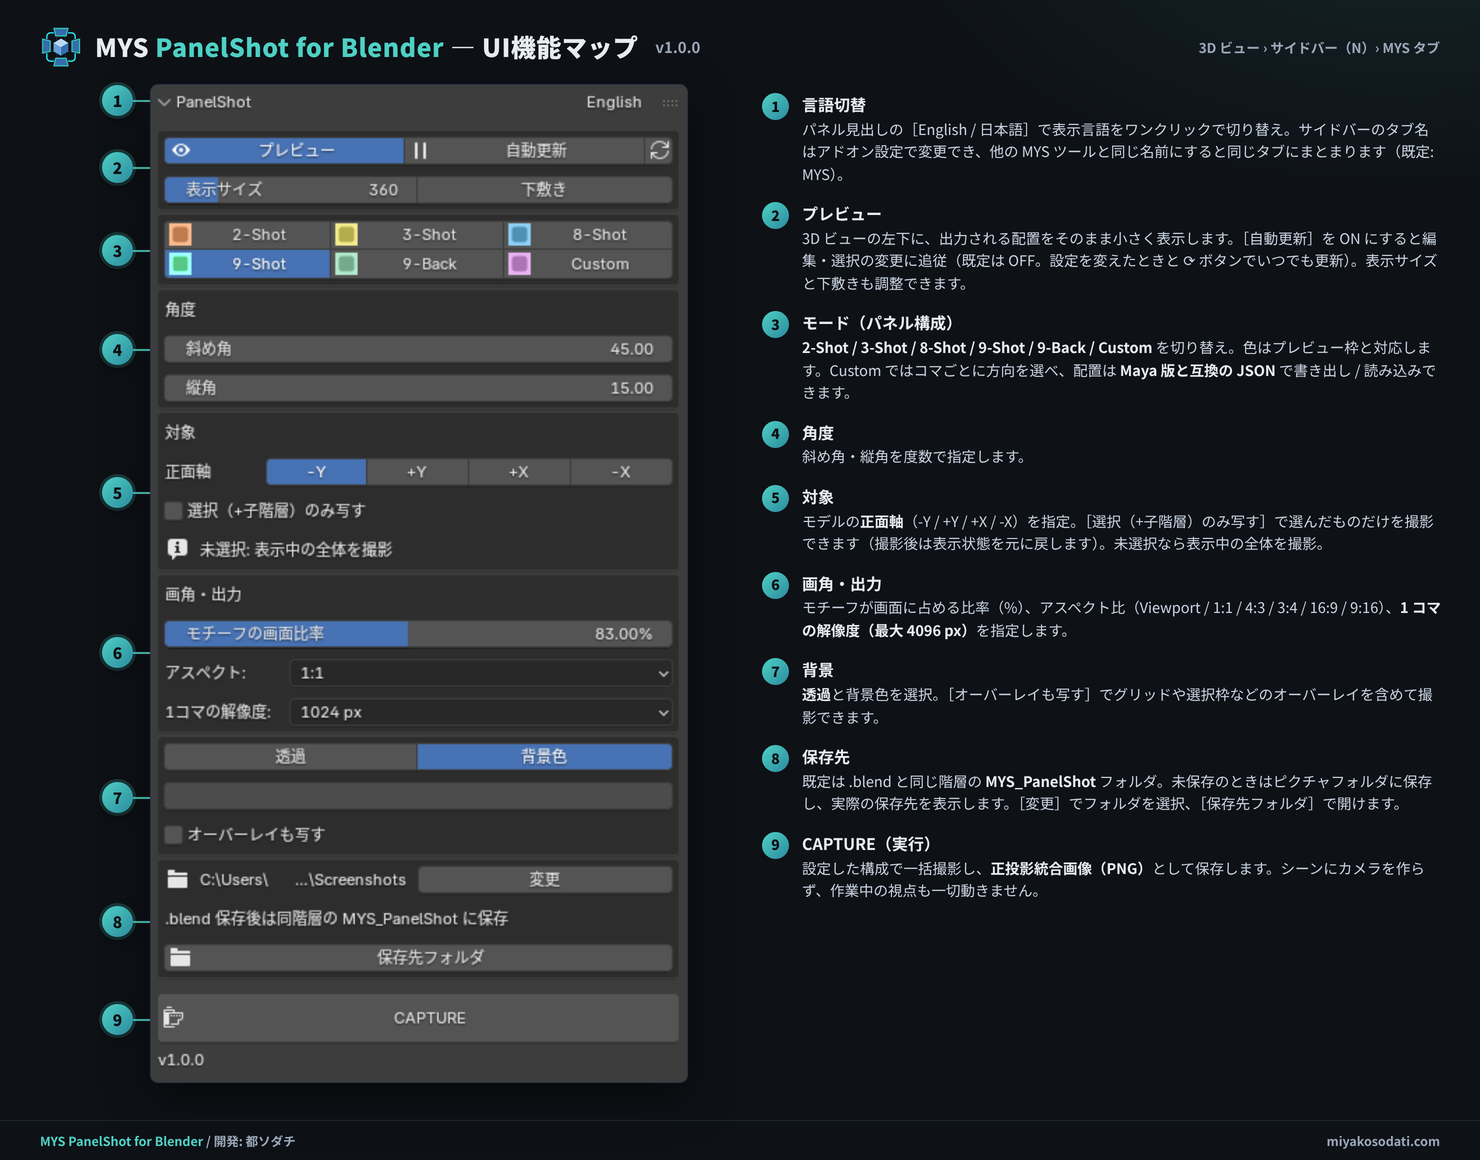
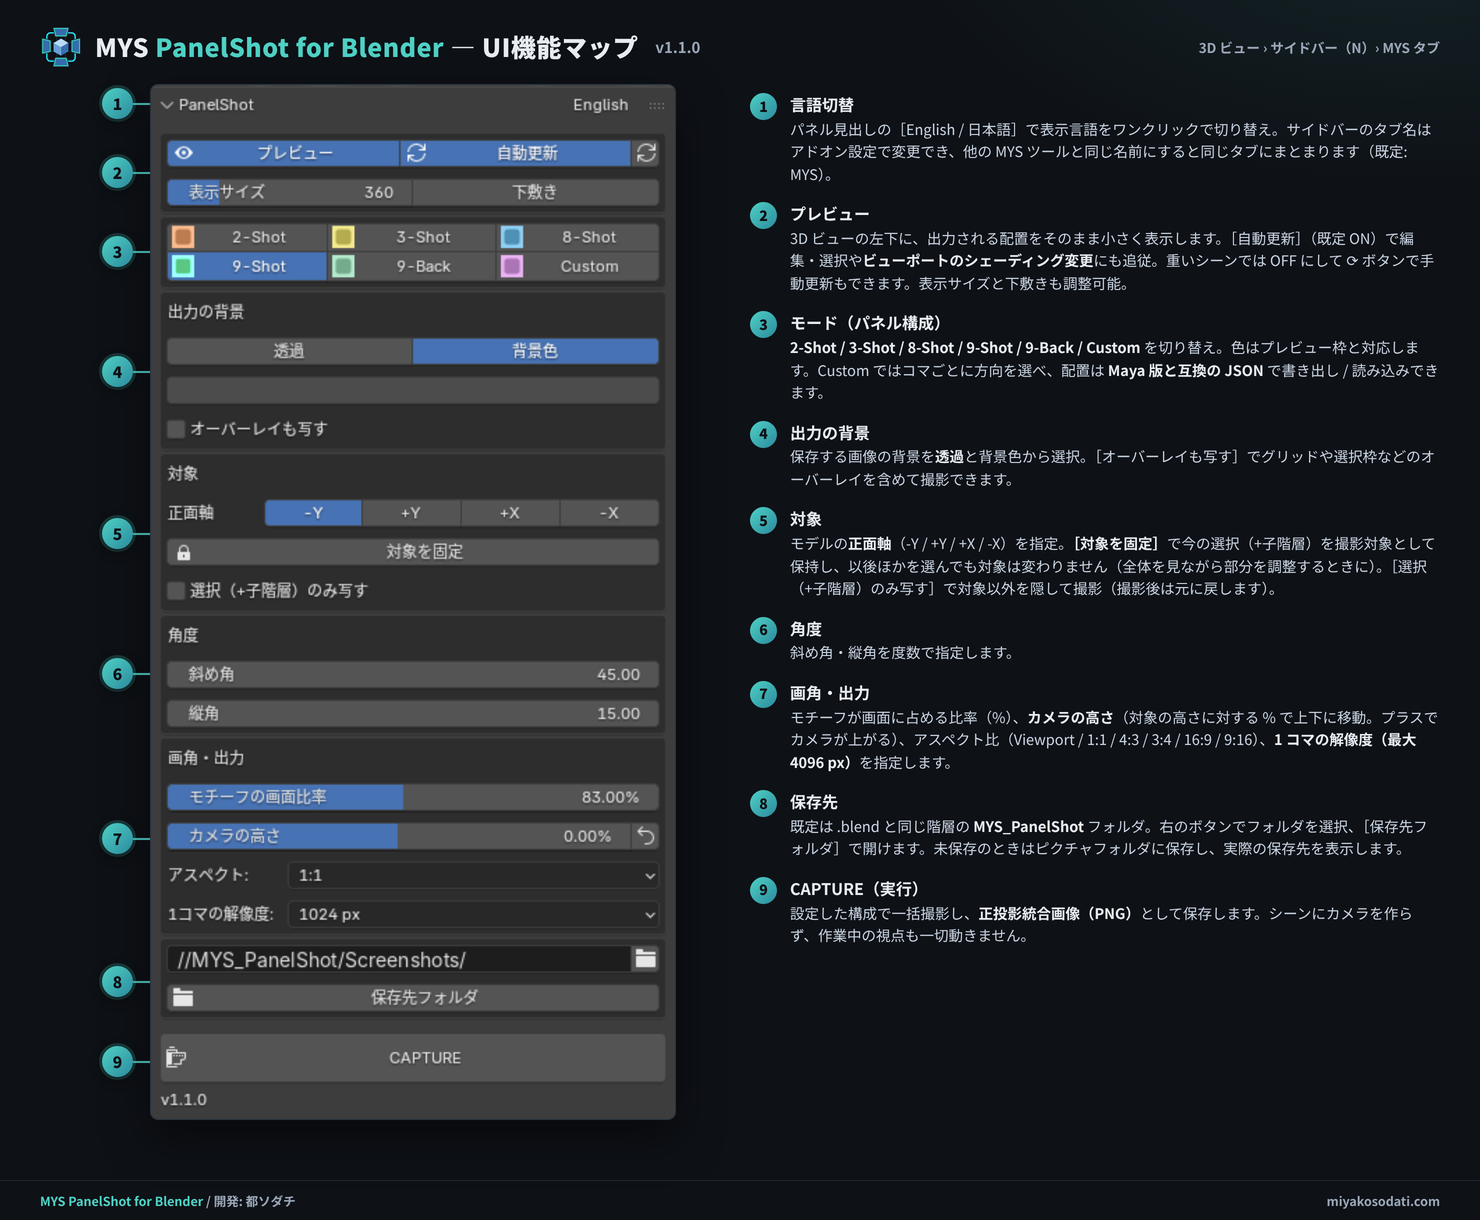
PanelShot for Blender v1.1.0: lock target, camera height, shading-aware preview

diff --git a/tools/panelshot-blender/index.html b/tools/panelshot-blender/index.html
@@ -27,7 +27,7 @@
 
   <div class="tool-head">
     <div class="crumb"><a href="/">MYS Tools</a> / PanelShot for Blender</div>
-    <h1>MYS PanelShot for Blender <span style="font-size:16px;color:var(--tx3)">v1.0.0</span></h1>
+    <h1>MYS PanelShot for Blender <span style="font-size:16px;color:var(--tx3)">v1.1.0</span></h1>
     <div class="tag">ビューポートの見た目のまま、複数アングルの正投影統合画像を一括出力する Blender アドオン</div>
     <div class="badges">
       <span class="bd dcc">Blender 4.2 LTS 〜</span>
@@ -36,10 +36,10 @@
       <span class="bd">無償・商用利用可</span>
     </div>
     <div class="dl-row">
-      <a class="dl-btn" href="https://github.com/miyakosodati/miyakosodati.github.io/releases/download/panelshot-blender-v1.0.0/mys_panelshot-1.0.0.zip">ダウンロード（v1.0.0）</a>
+      <a class="dl-btn" href="https://github.com/miyakosodati/miyakosodati.github.io/releases/download/panelshot-blender-v1.1.0/mys_panelshot-1.1.0.zip">ダウンロード（v1.1.0）</a>
       <div class="dl-note">このアドオンは <a href="#license">GNU GPL v3（またはそれ以降）</a>で配布しています（Maya 版ツールの EULA は適用されません）。zip は<strong>展開せずに</strong>そのまま Blender へインストールしてください。</div>
     </div>
-    <div style="margin-top:12px;font-size:13px;color:var(--tx2);border:1px solid #2a3442;border-left:3px solid #4fd1c5;border-radius:6px;background:rgba(26,33,44,.5);padding:9px 13px;line-height:1.65"><strong style="color:#4fd1c5">最新の更新（v1.0.0 / 2026-11-13）</strong>　一般公開を開始しました。Maya 版 <a href="/tools/panelshot/">MYS PanelShot</a> の Blender 移植版です。 <a href="#history">→ 更新履歴</a></div>
+    <div style="margin-top:12px;font-size:13px;color:var(--tx2);border:1px solid #2a3442;border-left:3px solid #4fd1c5;border-radius:6px;background:rgba(26,33,44,.5);padding:9px 13px;line-height:1.65"><strong style="color:#4fd1c5">最新の更新（v1.1.0 / 2026-11-13）</strong>　「対象を固定」と「カメラの高さ」を追加。シェーディング変更でもプレビューが自動更新されるようになり、パネルの並びも整理しました。 <a href="#history">→ 更新履歴</a></div>
   </div>
 
   <img class="figure" src="/assets/img/panelshot-blender/summary.png" alt="MYS PanelShot for Blender — 監修・資料用の正投影パネルを、Blender でも一発で。">
@@ -50,7 +50,8 @@
     <li>ビューポートの見た目のまま撮影します。シーンにカメラを作らず、<strong>作業中の視点も一切動きません</strong>。</li>
     <li>3D ビューの左下に<strong>仕上がりのプレビュー</strong>を表示。出力前に構成と収まりを確認できます。</li>
     <li>斜め角・縦角、モデルの正面軸、モチーフの画面比率、アスペクト比、<strong>1 コマの解像度（最大 4096 px）</strong>を指定可能。背景は<strong>透過</strong>とベタ色から選べます。</li>
-    <li>選択したもの（と子階層）だけを撮影することもできます。</li>
+    <li>選択したもの（と子階層）だけを撮影することもできます。<strong>［対象を固定］</strong>で撮影対象を保持すれば、ほかを選んで調整している間も対象は変わりません。</li>
+    <li><strong>カメラの高さ</strong>（対象の高さに対する %）で、注視点を上下にずらして収まりを調整できます。</li>
     <li>カスタム配置は <a href="/tools/panelshot/">Maya 版</a>と互換の JSON で書き出し / 読み込みでき、同じレイアウトを両方で使い回せます。</li>
     <li>表示は日本語 / English をワンクリックで切り替え。</li>
   </ul>
@@ -73,7 +74,7 @@
   <h2 class="sec">承知しておきたいこと</h2>
   <ul>
     <li>撮影はビューポートの表示を基にするため、画質や表示内容（シェーディングモード・照明など）はビューポートの設定に従います。</li>
-    <li>プレビューの「自動更新」は既定で OFF です（重いシーンで編集中の負荷を避けるため）。設定を変えたときと更新ボタンでいつでも更新でき、自動更新を ON にすると編集・選択の変更に追従します。</li>
+    <li>プレビューの「自動更新」は既定で ON です（編集・選択・ビューポートのシェーディング変更に追従）。重いシーンで編集が重く感じるときは OFF にし、更新ボタンで手動更新してください。</li>
     <li>.blend が未保存のときは、ピクチャフォルダ内の MYS_PanelShot フォルダに保存します（実際の保存先はパネルに表示されます）。</li>
     <li>Blender 4.1 以前には対応していません。</li>
   </ul>
@@ -89,6 +90,7 @@
 
   <h2 class="sec" id="history">更新履歴</h2>
   <table class="spec">
+    <tr><th>v1.1.0（2026-11-13）</th><td>「対象を固定」を追加 — 押した時点の選択（+子階層）を撮影対象として保持し、以後の選択変更に左右されません（固定した対象が削除された場合は警告を出して従来の動作に戻ります）／「カメラの高さ」を追加（Maya 版の Vertical Offset 相当。対象の高さに対する % で指定）／ビューポートのシェーディング変更（ソリッド / マテリアル、ライティング、MatCap など）でもプレビューを自動更新／プレビューの自動更新を既定 ON に／パネルの並びを「プレビュー → モード → 出力の背景 → 対象 → 角度 → 画角・出力 → 保存先」に整理</td></tr>
     <tr><th>v1.0.0（2026-11-13）</th><td>一般公開開始</td></tr>
   </table>
 

diff --git a/index.html b/index.html
@@ -43,7 +43,7 @@
     <div style="flex:1 1 400px;min-width:280px;border:1px solid #2a3442;border-radius:10px;background:rgba(26,33,44,.6);padding:12px 16px;font-size:13px;line-height:1.65;color:#c9d4e2">
       <div style="font-size:12.5px;font-weight:800;color:#4fd1c5;letter-spacing:.5px;margin-bottom:4px">更新情報</div>
       <div style="display:flex;flex-direction:column;gap:5px">
-        <div><span style="color:#4fd1c5;font-weight:700">11/13</span>&nbsp;<span style="color:#0e1116;background:#4fd1c5;border-radius:4px;padding:0 5px;font-size:11px;font-weight:900">NEW</span>&nbsp;<a href="/tools/panelshot-blender/"><strong>MYS PanelShot for Blender v1.0.0</strong></a> — PanelShot の Blender 版を公開（Blender 4.2 LTS〜の拡張機能、GPL-3.0）</div>
+        <div><span style="color:#4fd1c5;font-weight:700">11/13</span>&nbsp;<span style="color:#0e1116;background:#4fd1c5;border-radius:4px;padding:0 5px;font-size:11px;font-weight:900">NEW</span>&nbsp;<a href="/tools/panelshot-blender/"><strong>MYS PanelShot for Blender v1.1.0</strong></a> — PanelShot の Blender 版（4.2 LTS〜・GPL-3.0）。v1.1.0 で「対象を固定」「カメラの高さ」を追加</div>
         <div><span style="color:#4fd1c5;font-weight:700">11/09</span>&nbsp;<strong style="color:#e8edf4">主要ツールが高DPI（4K）モニタ対応</strong> — <a href="/tools/bokashi/">Bokashi</a> / <a href="/tools/panelshot/">PanelShot</a> / <a href="/tools/uvmirror/">UVMirror</a> / <a href="/tools/csweep/">CSweep</a> を 4K 対応に（Maya の UI 拡大率に追従、等倍は従来どおり）</div>
         <div><span style="color:#4fd1c5;font-weight:700">11/09</span>&nbsp;<a href="/tools/blendmaker/"><strong>BlendMaker v1.5.0</strong></a> — 高DPI（4K）モニタ対応に（ボーンリンクの「ベイク / エクスポート」も掲載中）</div>
       </div>
